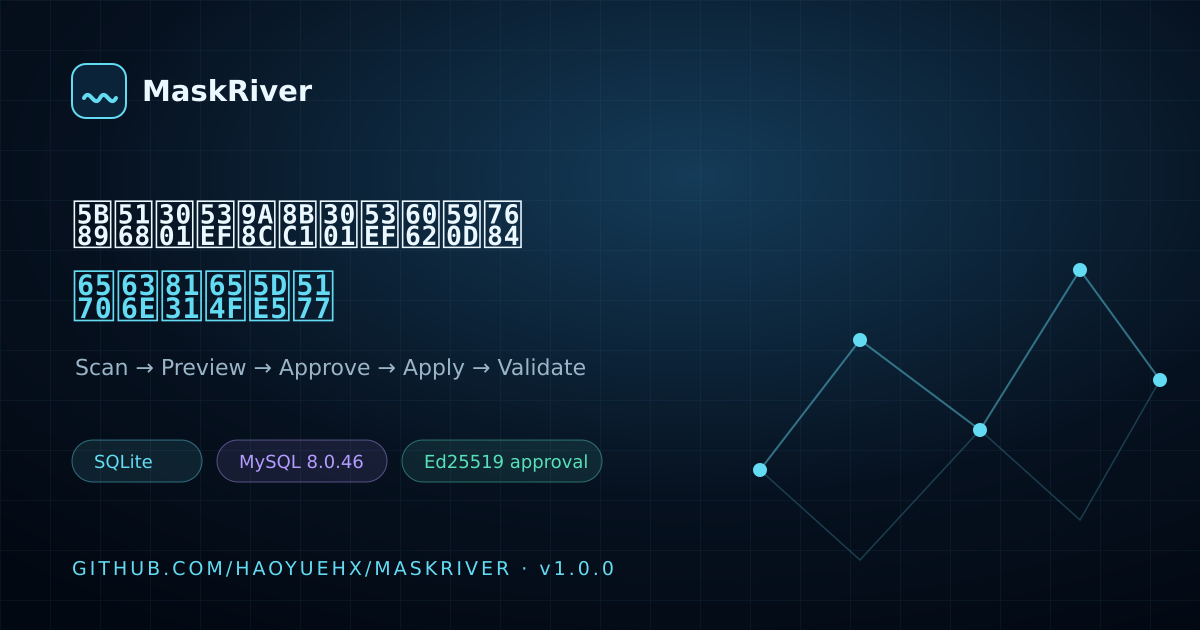
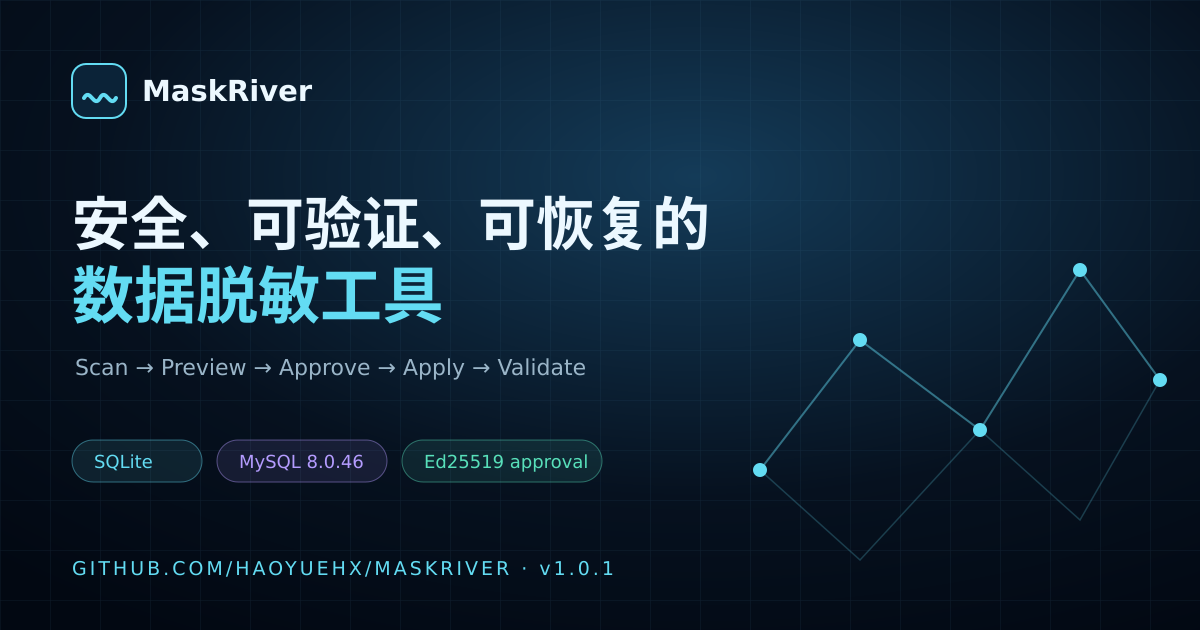
docs: resolve final video and competition-name contradictions
- rewrite website handoff as an online record
- update README video/competition wording
- remove stale not-registered disclaimer
- refresh OG image to v1.0.1

Changed region(s): [[0.0617, 0.3016, 0.6167, 0.5127]]

diff --git a/video/docs/website-handoff.md b/video/docs/website-handoff.md
@@ -1,101 +1,41 @@
-# 官网新视频替换方案（待人工听感确认后执行）
+# 官网终版视频上线记录
 
-**当前状态：已上线。** 项目负责人已完成剪映中文配音并试听确认；
-官网视频为 `website/public/media/maskriver-demo-v2.mp4`（SHA-256
[1 lines of base64/hex data omitted]
-由 PR #109 合并（`35ad9d7`）并经 Pages workflow `40501157957` 成功部署。
+**状态：已上线。** 项目负责人使用剪映完成终版中文配音并试听确认；视频由
+PR #109 合并（`35ad9d7`），Website workflow `40501157957` 的 Build 与 Deploy
+Pages 均成功。
 
-## 当前线上事实（本轮实际检查）
+## 线上事实
 
 | 项 | 当前值 |
 |---|---|
-| 线上站点 | `https://haoyuehx.github.io/maskriver/`（HTTP 200） |
-| 线上视频 | `/maskriver/media/maskriver-demo.mp4`，Range 请求 206 |
-| 线上视频规格 | 260.000 s / 1920×1080 / H.264 / **无音轨** / 13,311,399 bytes |
[1 lines of base64/hex data omitted]
-| 线上字幕 | 外挂 `maskriver-demo.zh.vtt`，同时画面烧录中文 |
-| 播放器 | `website/src/components/VideoPlayer.tsx`；点击封面才加载；有字幕、音量、全屏控制 |
-| 部署 | `.github/workflows/website.yml`，仅 `main` push 到 `website/**` 时构建/部署 |
-| 媒体 URL | `website/src/data/content.ts` 的 `VIDEO_URL` / `POSTER_URL` / `CAPTIONS_URL` |
+| 网站 | https://haoyuehx.github.io/maskriver/ |
+| 视频 | https://haoyuehx.github.io/maskriver/media/maskriver-demo-v2.mp4 |
+| 文件 | `website/public/media/maskriver-demo-v2.mp4` |
[1 lines of base64/hex data omitted]
+| 大小 / 时长 | 74,098,376 bytes · 260.018 s |
+| 视频 | 1920×1080 · 30 fps · H.264 Main |
+| 音频 | AAC-LC · 44.1 kHz · stereo · 单音轨 |
+| 字幕 | 35 条画面烧录中文；外挂 VTT 默认关闭 |
+| 封面 | `website/public/media/maskriver-demo-v2-poster.png`（23.0 s 终版帧） |
+| 播放器 | `website/src/components/VideoPlayer.tsx`；点击加载、音量/静音、进度、全屏、错误回退 |
 
-## 候选新片
+## 验证
 
-| 项 | 值 |
-|---|---|
-| 文件 | `video/out/maskriver-demo-new.mp4`（已提交到 PR #104） |
[1 lines of base64/hex data omitted]
-| 规格 | 260.054 s / 1920×1080 / 30 fps / H.264 + AAC-LC 48 kHz / 32,415,678 bytes |
-| 字幕 | 35 条中文已烧录进画面 + `video/subtitles/zh-CN.srt` |
-| 音轨 | 本地 Piper TTS，技术 QC 通过；**人工听感未验收** |
-| 推荐 URL 文件名 | `maskriver-demo-v2.mp4`（新文件名，避免 CDN/浏览器缓存旧片） |
-
-## 替换前必须满足
-
-1. 人工按 `docs/audio-review.md` 完整试听，结论为 PASS 或 CONDITIONAL。
-2. 若为 CONDITIONAL，记录具体问题、时间点和是否可接受；不得把技术 QC 当成听感 PASS。
-3. 视频 SHA-256 与视觉审查/技术 QC 指向的产物一致；若重新渲染，必须重新抽帧、重新 QC、更新 SHA。
-4. 用户明确确认可以覆盖官网演示视频。
-
-## 建议的最小改动（下一轮执行）
-
-### 1. 媒体文件
-
-- 新增 `website/public/media/maskriver-demo-v2.mp4`（新片，保留旧文件直到上线回滚不再需要）。
-- 新增封面 `website/public/media/maskriver-demo-v2-poster.png`：从新片抽取 4.0 s 全分辨率帧，
-  确保与新片视觉一致；旧 `poster.png` 是旧片风格，不应继续使用。
-- 不复制新片的 SRT/VTT 作为默认外挂字幕：新片已烧录 35 条字幕，默认再显示外挂字幕会形成双层。
-  如仍需无障碍外挂字幕，必须默认关闭，并在 UI 明示“外挂字幕（画面已含字幕）”，不能默认开启。
-
-### 2. `website/src/data/content.ts`
-
-```ts
-export const VIDEO_URL =
-  import.meta.env.VITE_VIDEO_URL ?? `${mediaBase}maskriver-demo-v2.mp4`;
-export const POSTER_URL =
-  import.meta.env.VITE_POSTER_URL ?? `${mediaBase}maskriver-demo-v2-poster.png`;
-```
-
-`CAPTIONS_URL` 仅在决定保留“默认关闭的外挂字幕”时改为新 VTT；否则从播放器移除 track。
-
-### 3. `website/src/components/VideoPlayer.tsx`
-
-- 文案：`04:20 · 1920×1080 · 中文画面字幕 · 无配音` → `04:20 · 1920×1080 · 中文配音 · 烧录字幕`。
-- 底部提示：`视频为无配音视觉版；中文 SRT 随站点提供` → `视频含中文旁白与烧录字幕；音量可调`。
-- 若移除外挂字幕：删除 `<track>`、`captions` 状态、Captions 图标按钮和 `textTracks` effect；
-  同步删除 `onLoadedMetadata` 之外的字幕相关分支。
-- 若保留外挂字幕：`captions` 初始值必须为 `false`，按钮 label 改为“外挂字幕（画面已含）”。
-- 保留现有的点击加载、错误回退、音量/静音、进度、全屏和移动端行为；新片有音轨，默认
-  音量沿用 0.85，不要强制静音。
-
-### 4. 文档与测试
-
-- `website/docs/video-review.md`：保留旧片评审为历史，新增新片规格、SHA、视觉/事实/音频状态。
-- `website/README.md`：媒体清单改为新文件名和大小；明确“中文配音 + 烧录字幕”。
-- `.github/workflows/website.yml` 的 post-deploy smoke：把 Range 检查路径改为新视频；
-  继续检查首页 200 与 `og-image.png` 200。若封面改名，OG 图不必跟随视频封面。
-- `website/tests/site.spec.ts`：现有播放器测试检查封面和播放按钮；新增/调整断言以覆盖
-  新文案与“无默认双层字幕”。不要把 260 s 写死为其它时长（新片 260.054 s）。
-- `website/docs/deployment.md`：记录新片部署与回滚步骤。
-
-### 5. 部署与验证
-
-1. 本地 `npm run typecheck && npm run lint && npm run build`。
-2. Playwright 全视口回归；至少检查 360/390/768/1440/1920 的播放器与字幕开关。
-3. 合并后等待 Website workflow 的 `Deploy GitHub Pages` 成功。
-4. 线上验证：
-   - 首页 200；
-   - 新 MP4 Range 206；
-   - 新封面 200；
-   - 无默认双层字幕；
-   - 音量按钮可听、可静音；
-   - 移动端 360 px 无溢出；
-   - 旧视频文件仍在仓库作为回滚，直到确认不再需要。
+- 完整解码 PASS；音轨 −21.9 LUFS，True Peak −4.0 dBFS，无削波。
+- 35/35 字幕窗口内有语音；语音起点约比原 cue 晚 0.2 s；无 >10 s 异常静音。
+- 片头/片尾为淡入淡出；未发现剪映水印或额外片尾。
+- Website CI：typecheck、lint、build、Playwright 通过。
+- Pages 部署成功；线上首页 200，视频 Range 206，封面 200。
+- 线上 `Content-Length` 为 74,098,376；首尾字节与仓库文件一致。受 GitHub
+  Pages 传输限速影响，未完成全文件回下载 SHA 复核。
 
 ## 回滚
 
-若新片上线后发现音画问题：将 `content.ts` 的 `VIDEO_URL` / `POSTER_URL` 指回旧文件，
-重新部署即可；不要重写 Git 历史或删除旧 Release。正式比赛提交前必须完成一次线上播放验证。
+将 `website/src/data/content.ts` 的 `VIDEO_URL` / `POSTER_URL` /
+`CAPTIONS_URL` 指回 `maskriver-demo.mp4` / `poster.png` /
+`maskriver-demo.zh.vtt`，重新部署；旧文件仍保留。不要重写 Release 或 Git 历史。
 
-## 本轮结论
+## 来源与边界
 
-**WAITING FOR HUMAN AUDIO REVIEW**：工程 PR 可合并，但官网替换必须等试听结论；当前线上仍是旧无声版。
+终版由项目负责人使用剪映制作并试听确认，不是 Agent 重新配音或重新渲染。
+原始 Remotion 工程与 `video/out/maskriver-demo-new.mp4` 仅作为历史源工程保留。

diff --git a/README.md b/README.md
@@ -8,7 +8,7 @@ MaskRiver 是独立开发的 Go 数据脱敏与敏感信息治理项目，面向
 - **稳定版：** [v1.0.1](https://github.com/haoyuehx/maskriver/releases/tag/v1.0.1)（Linux amd64）
 - **许可：** MIT
 
-面向 **2026 开放原子大赛 · 开源基础软件与解决方案赛道** 的参赛作品。当前发行包只构建 linux/amd64；其他 Linux 架构无发行包，仅部分目标在 CI 交叉编译，未运行测试。
+面向 **2026 开源行业解决方案创新赛 · 开源基础软件与解决方案赛道** 的参赛作品。当前发行包只构建 linux/amd64；其他 Linux 架构无发行包，仅部分目标在 CI 交叉编译，未运行测试。
 
 ## 官网与演示视频
 
@@ -16,7 +16,7 @@ MaskRiver 是独立开发的 Go 数据脱敏与敏感信息治理项目，面向
 
 **https://haoyuehx.github.io/maskriver/**
 
-网站集成了 4 分 20 秒的产品概念演示视频（1920×1080、H.264、中文字幕、当前无配音）。
+网站集成了 4 分 20 秒的终版产品演示视频（1920×1080、H.264、中文配音、中文字幕）。
 
 ## 核心功能
 

diff --git a/docs/competition/submission-checklist.md b/docs/competition/submission-checklist.md
@@ -1,6 +1,6 @@
 # 比赛提交检查清单
 
-> 本文件是参赛研发准备材料，不代表已报名、入选或获官方背书。
+> 本文件是 2026 开源行业解决方案创新赛正式参赛提交准备材料；报名与赛道已确认。
 
 - [x] 2026 开源行业解决方案创新赛报名与赛道确认
 - [x] v1.0.1 稳定版 Release 与 Linux amd64 资产
